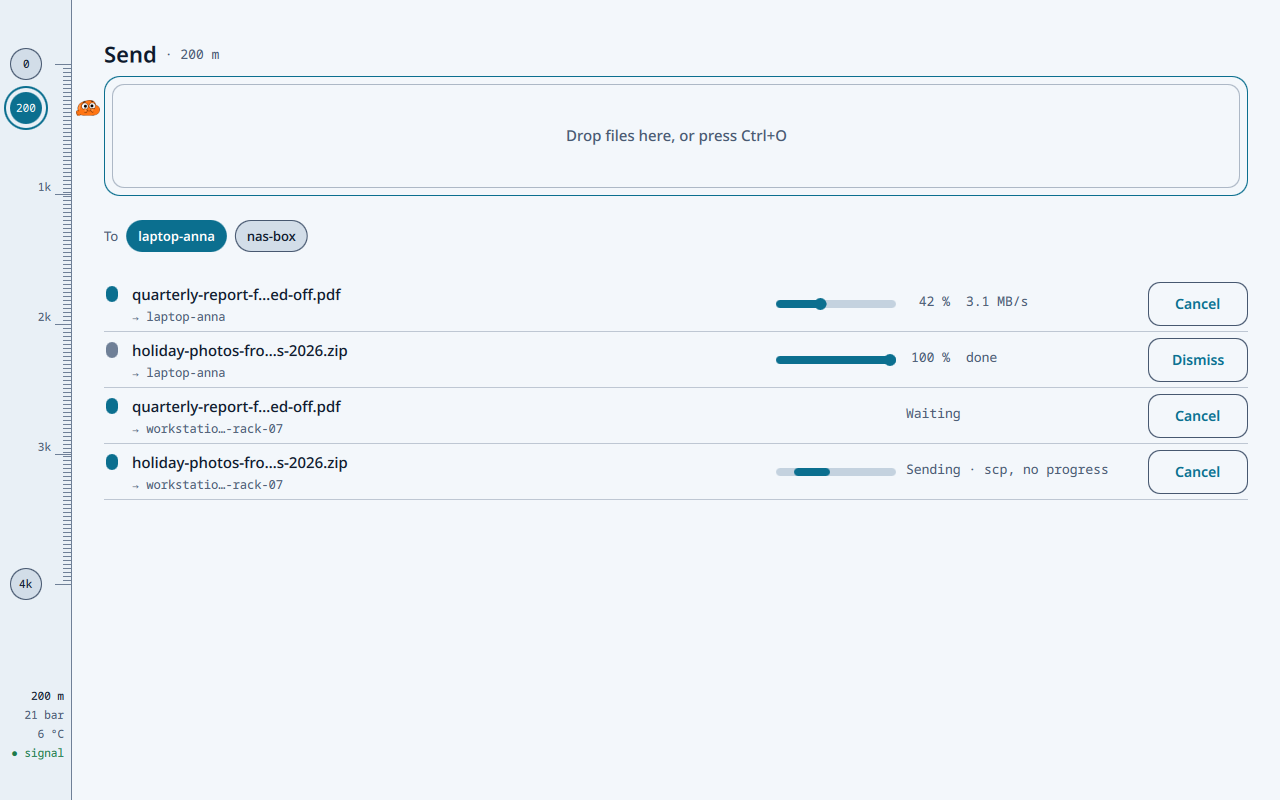
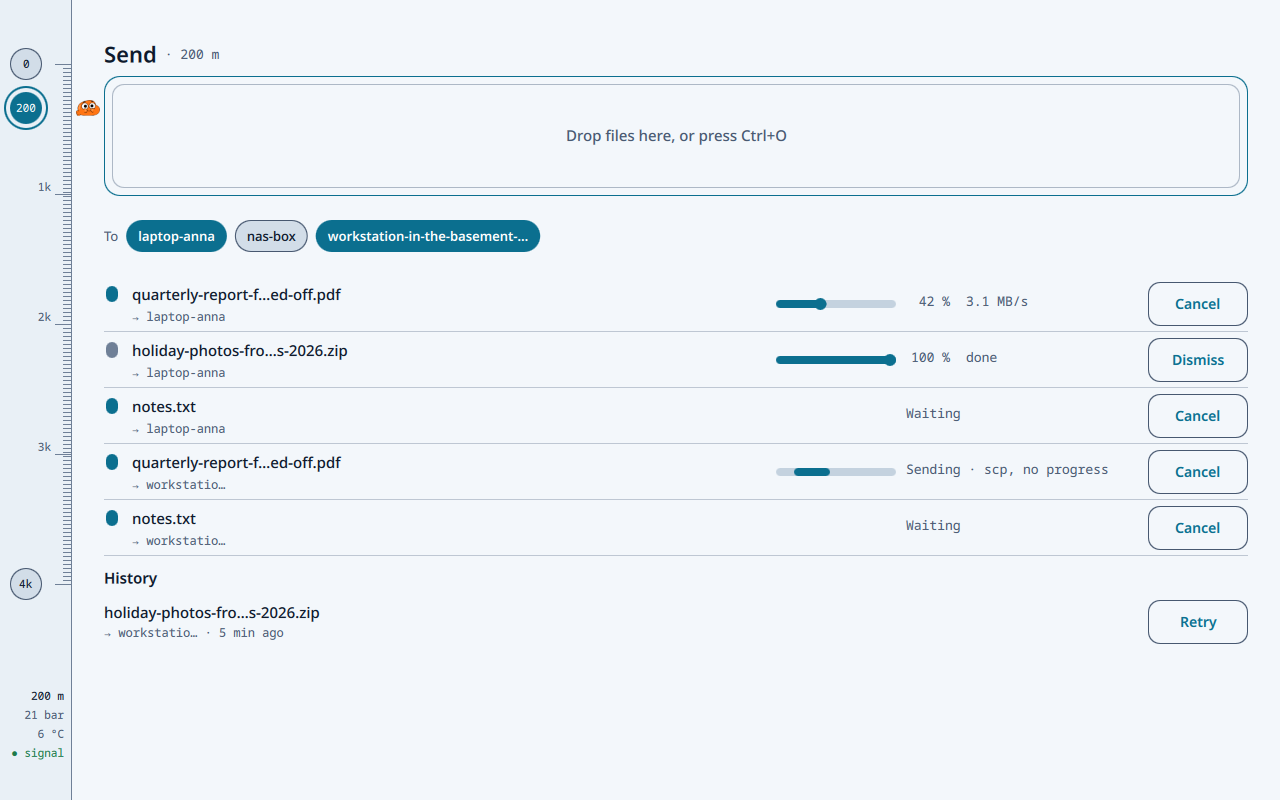
fix(send): long device in the scene and its end elision, history in send-long, many/paste/compact captures (NAK-325)

diff --git a/scripts/preview/app.qml b/scripts/preview/app.qml
@@ -41,6 +41,13 @@ Window {
                 online: true
             },
             {
+                id: "p4",
+                name: "workstation-in-the-basement-lab-rack-07",
+                fqdn: "workstation-in-the-basement-lab-rack-07.netbird.cloud",
+                ip: "100.64.0.14",
+                online: true
+            },
+            {
                 id: "p3",
                 name: "phone-tab",
                 fqdn: "phone-tab.netbird.cloud",
@@ -54,7 +61,7 @@ Window {
     // set on the view directly, so no program is started
     function fillSend() {
         const long = root.scene === "send-long";
-        const names = long ? ["/x/quarterly-report-final-version-2-reviewed-by-everyone-and-signed-off.pdf", "/x/holiday-photos-from-the-long-weekend-in-the-mountains-2026.zip"] : ["/x/report.pdf", "/x/photos.zip", "/x/notes.txt"];
+        const names = long ? ["/x/quarterly-report-final-version-2-reviewed-by-everyone-and-signed-off.pdf", "/x/holiday-photos-from-the-long-weekend-in-the-mountains-2026.zip", "/x/notes.txt"] : ["/x/report.pdf", "/x/photos.zip", "/x/notes.txt"];
         let q = Queue.add(Queue.empty(), names, (long ? ["laptop-anna", "workstation-in-the-basement-lab-rack-07"] : ["laptop-anna", "nas-box"])).state;
         // 1: rsync with a meter, 2: done (stays until dismissed), 4: scp without
         // progress, 5: failed (goes to the history)
@@ -62,11 +69,23 @@ Window {
         q = Queue.finish(Queue.start(q, 2), 2, Date.now());
         q = Queue.start(q, 4);
         q = Queue.fail(Queue.start(q, 5), 5, "Connection refused", Date.now() - 300000);
+        if (root.scene === "send-many") {
+            const more = [];
+            for (let i = 0; i < 24; i++)
+                more.push("/x/holiday-photo-" + (i + 10) + ".jpg");
+            q = Queue.add(q, more, ["nas-box"]).state;
+        }
         frame.sendView.rates = {
             "1": "3.1 MB/s"
         };
         frame.sendView.q = q;
-        frame.sendView.chosen = ["laptop-anna"];
+        frame.sendView.chosen = long ? ["laptop-anna", "workstation-in-the-basement-lab-rack-07"] : ["laptop-anna"];
+        if (root.scene === "send-paste")
+            frame.sendView.say({
+                "title": "No files on the clipboard",
+                "advice": "Copy files in your file manager, then press Ctrl+V.",
+                "guide": "https://example.invalid/guide"
+            }, 0);
         if (root.scene === "send-refused")
             frame.sendView.say({
                 "title": "nas-box refused the file",

diff --git a/app/components/SendJobRow.qml b/app/components/SendJobRow.qml
@@ -63,7 +63,7 @@ Item {
     Text {
         x: row.history ? 0 : 28
         y: row.history ? 24 : 32
-        text: "→ " + Transfer.middle(row.job.device, 10, 8) + (row.history ? " · " + row.age : "")
+        text: "→ " + Transfer.middle(row.job.device, 10, 0) + (row.history ? " · " + row.age : "")
         color: Theme.onSurfaceVariant
         font.family: Theme.monoFontFamily
         font.pixelSize: 12
